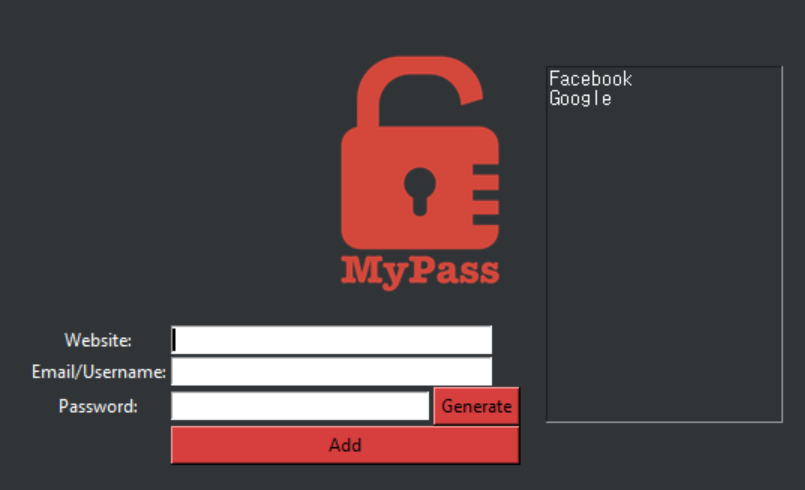
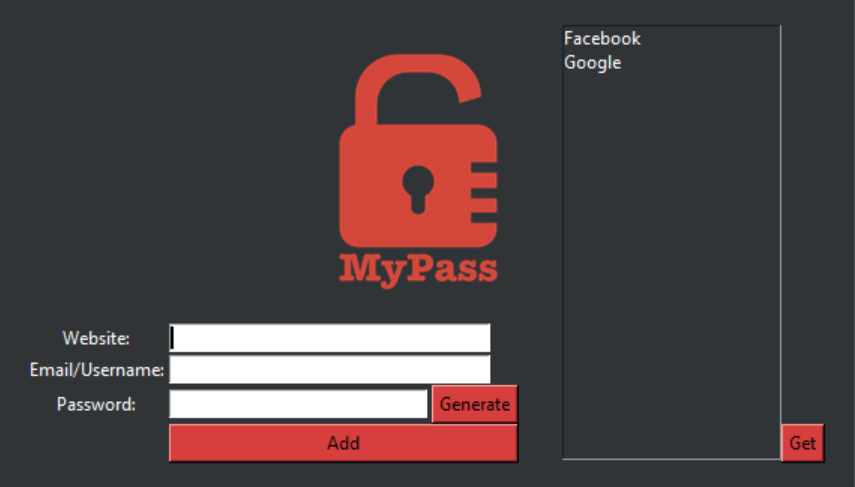
:palm_tree: Search_feature

Changed region(s): [[0.0311, 0.0, 1.0, 1.0], [0.3727, 0.0924, 0.6211, 0.616], [0.6522, 0.0616, 0.8075, 0.2156]]

diff --git a/Tools/password_manager/main.py b/Tools/password_manager/main.py
@@ -1,21 +1,34 @@
 import tkinter as tk
 from tkinter import messagebox
 import random
+import json
 
 # Global val
 CHARCOAL = "#303437"
 RED = "#d73e3e"
 
 
-# Fetch data from data.txt and display saved websites
-def get_saved():
-    with open("data.txt") as data:
-        web = data.readlines()
-    
-    for i in web:
-        result = i.split(" | ")[1]
-        web_list.insert(tk.END, f"{result}\n", "tag-center")
+def display():
+    try:
+        with open("data.json") as data_file:
+            data = json.load(data_file)
+    except FileNotFoundError:
+        pass
+    else:
+        for web in data:
+            web_list.insert(tk.END, f"{web}")
+            
 
+
+# Shows email/password for selected website
+def get_saved():
+    cur = web_list.get(web_list.curselection())
+    
+    with open("data.json") as data_file:
+        data = json.load(data_file)
+        email = data[cur]["email"]
+        password = data[cur]["password"]
+        messagebox.showinfo(title=cur, message=f"Email: {email}\nPassword: {password}")
 
 # Generate random password
 def generate():
@@ -35,19 +48,35 @@ def generate():
     password_entry.insert(0, password)
 
 
-# Save user's input data to data.txt
+# Save user's input data to data.json
 def save():
     website = web_entry.get()
     email = email_entry.get()
     password = password_entry.get()
 
+    new_data = {
+        website: {
+            "email": email,
+            "password": password,
+        }
+    }
+
     if website != "" and email != "" and password != "":
-        with open("data.txt", mode="a") as data:
-            data.write(f"{website} | {email} | {password} \n")
+        try:
+            with open("data.json", mode="r") as data_file:
+                data = json.load(data_file)
+        except FileNotFoundError:
+            with open("data.json", mode="w") as data_file:
+                json.dump(new_data, data_file, indent=4)
+        else:
+            data.update(new_data)
+            with open("data.json", mode="w") as data_file:
+                json.dump(data, data_file, indent=4)
+        
         web_entry.delete(0, "end")
         email_entry.delete(0, "end")
         password_entry.delete(0, "end")
-        web_list.insert(tk.END, f"{website}\n", "tag-center")
+        web_list.insert(tk.END, f"{website}")
         messagebox.showinfo(title="Success", message="Successfully saved")
     else:
         messagebox.showerror(title="Failed", message="Please fill out the boxes")
@@ -84,16 +113,19 @@ gen_btn.config(bg=RED, activebackground=RED)
 add_btn = tk.Button(text="Add", command=save)
 add_btn.config(bg=RED, activebackground=RED)
 
-web_list = tk.Text(
-    width=22,
+get_btn = tk.Button(text="Get", command=get_saved)
+get_btn.config(bg=RED, activebackground=RED)
+
+web_list = tk.Listbox(
+    width=24,
     height=18,
     bg=CHARCOAL,
     fg="white",
-    highlightthickness=0
+    highlightthickness=0,
+    selectbackground=RED,
+    selectforeground="black"
 )
-web_list.tag_configure('tag-center', justify='center')
-web_list.bind("<Key>", lambda e: "break")
-get_saved()
+display()
 
 # GUI Grid
 canvas.grid(column=1, row=0)
@@ -106,5 +138,6 @@ password_entry.grid(column=1, row=3, sticky="W")
 gen_btn.grid(column=1,row=3, padx= 175)
 add_btn.grid(column=1, row=4, ipadx=100, sticky="W")
 web_list.grid(column=1, row=0, rowspan=5, sticky="E")
+get_btn.grid(column=2, row=4, sticky="N")
 
 window.mainloop()

diff --git a/Tools/password_manager/README.md b/Tools/password_manager/README.md
@@ -8,8 +8,9 @@
 <!-- Tools features -->
 ## Features
 1. Password Manager generates random strong password for you
-2. The saved data is stored locally in `txt` file
+2. The saved data is stored locally in `json` file
 3. Displays saved websites on the right
+4. Fetch selected data and displays on pop-up
 
 ## Screenshot
 <img src="../password_manager/Screenshot.png">
